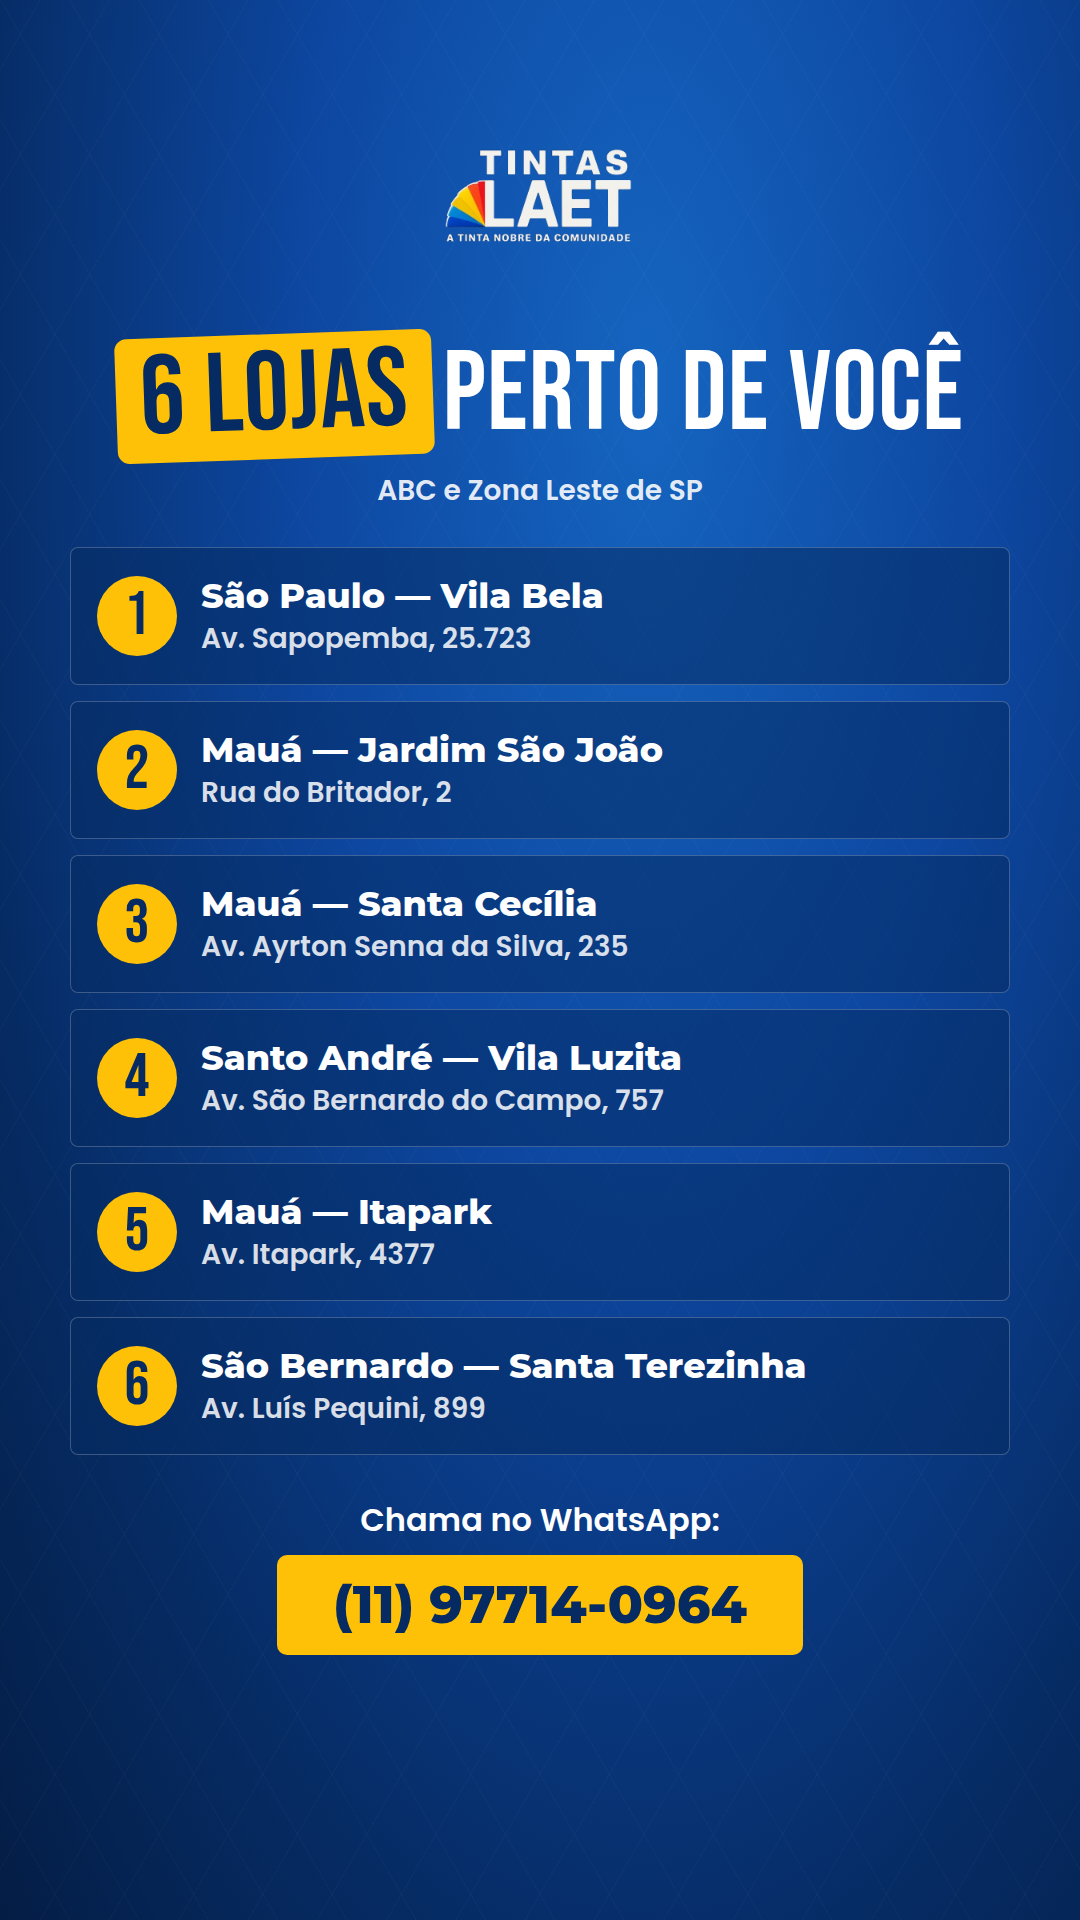
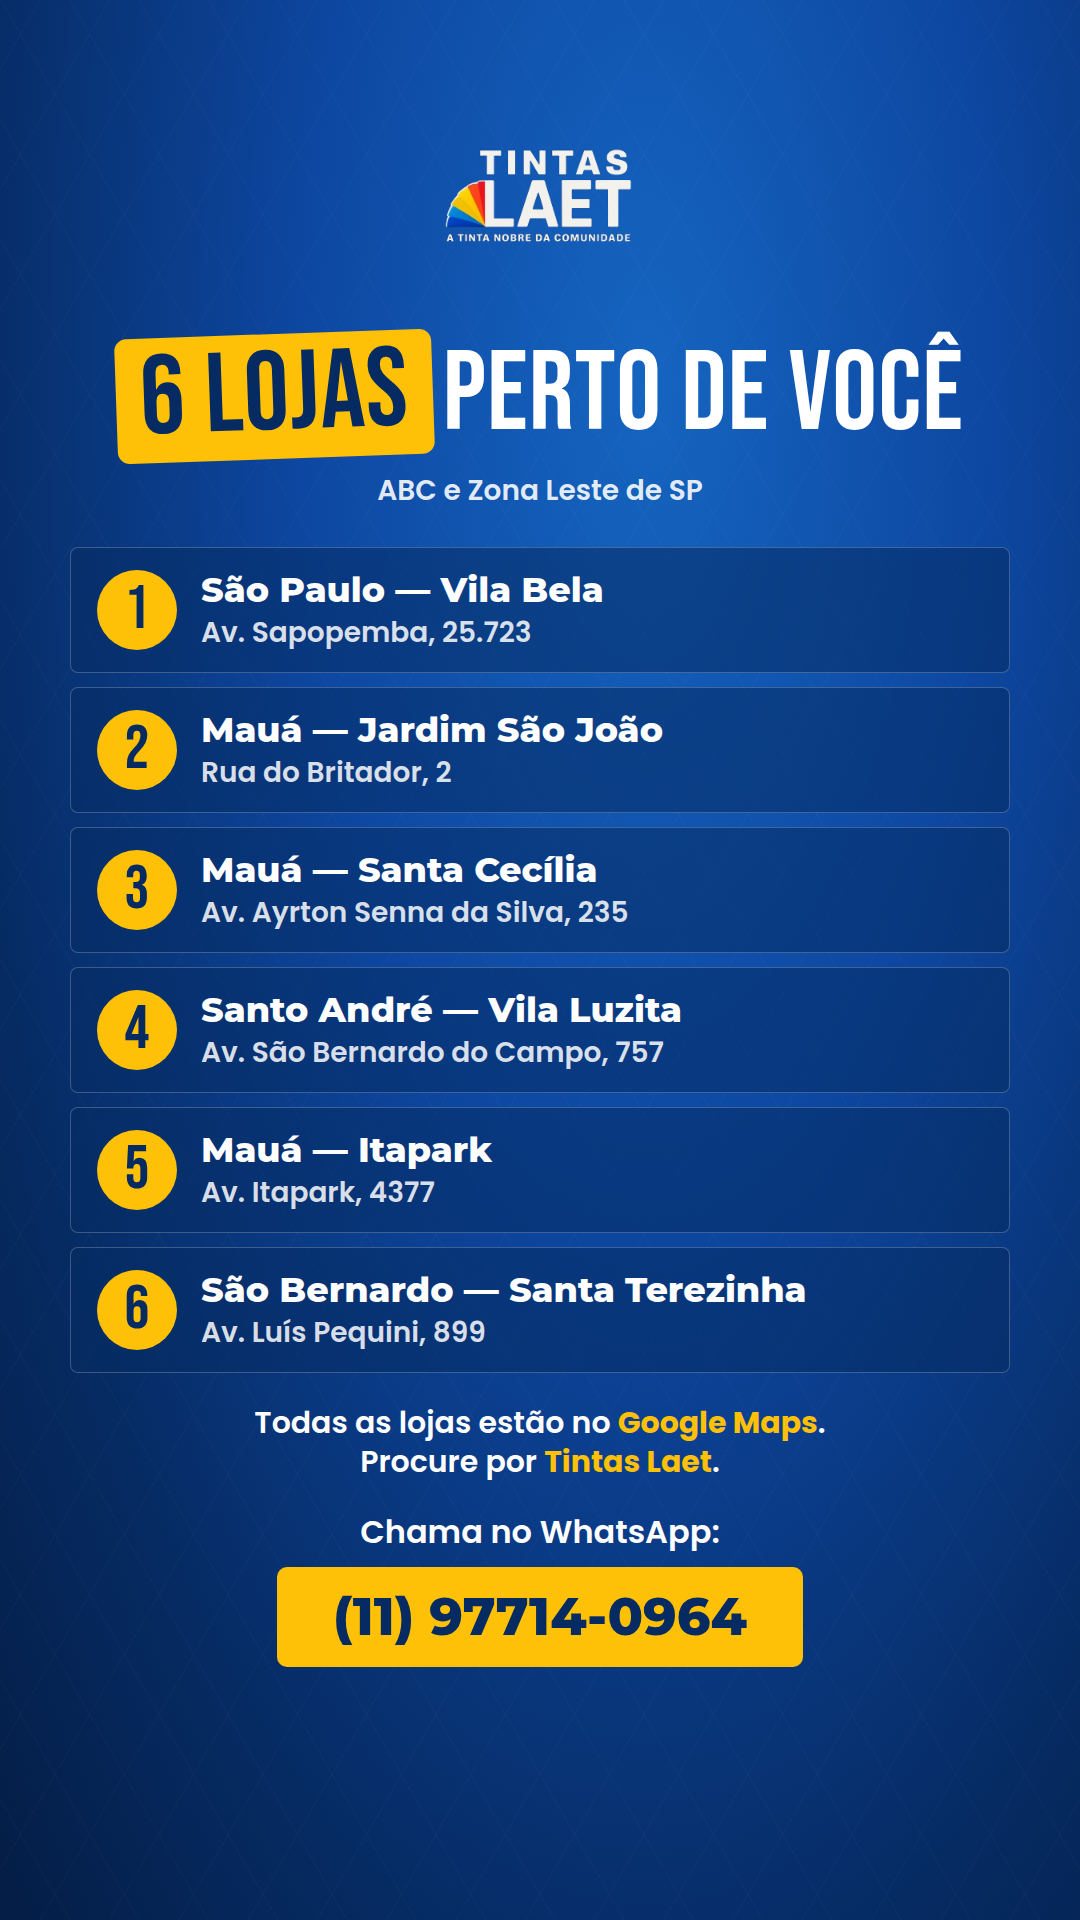
Story das 6 lojas: aviso do Google Maps
Claude-Session: https://claude.ai/code/session_01GERzdKqRwXMVg2X3B1iW2A

Changed region(s): [[0.0917, 0.2812, 0.9472, 0.875]]

diff --git a/marketing/stories/2026-10/03-nossas-6-lojas/story.html b/marketing/stories/2026-10/03-nossas-6-lojas/story.html
@@ -22,12 +22,14 @@ body { background:#020A18; }
 h1 { font:400 112px/1 'Bebas Neue',sans-serif; color:#fff; letter-spacing:.01em; margin-top:34px; white-space:nowrap; }
 h1 .chip { background:#FFC107; color:#062B63; padding:2px 24px; border-radius:12px; display:inline-block; transform:rotate(-2deg); line-height:1.08; margin-right:10px; }
 .sub { font:600 28px/1.3 'Poppins',sans-serif; color:rgba(255,255,255,.9); margin-top:14px; }
-.lojas { margin-top:38px; width:940px; display:flex; flex-direction:column; gap:16px; }
-.loja { display:flex; align-items:center; gap:24px; text-align:left; background:rgba(6,43,99,.55); border:1px solid rgba(255,255,255,.22); border-radius:8px; padding:0 26px; height:138px; }
+.lojas { margin-top:38px; width:940px; display:flex; flex-direction:column; gap:14px; }
+.loja { display:flex; align-items:center; gap:24px; text-align:left; background:rgba(6,43,99,.55); border:1px solid rgba(255,255,255,.22); border-radius:8px; padding:0 26px; height:126px; }
 .num { flex:none; width:80px; height:80px; border-radius:50%; background:#FFC107; color:#062B63; font:400 62px/80px 'Bebas Neue',sans-serif; text-align:center; }
 .b { font:800 35px/1.15 'Montserrat',sans-serif; color:#fff; }
 .e { font:600 28px/1.3 'Poppins',sans-serif; color:rgba(255,255,255,.85); margin-top:5px; }
-.cta { margin-top:44px; font:600 32px/1.3 'Poppins',sans-serif; color:#fff; }
+.maps { margin-top:30px; font:600 30px/1.3 'Poppins',sans-serif; color:#fff; }
+.maps b { color:#FFC107; font-weight:700; }
+.cta { margin-top:30px; font:600 32px/1.3 'Poppins',sans-serif; color:#fff; }
 .tel { margin-top:14px; background:#FFC107; color:#062B63; font:800 52px/1 'Montserrat',sans-serif; padding:24px 56px; border-radius:10px; }
 </style>
 </head>
@@ -44,6 +46,7 @@ h1 .chip { background:#FFC107; color:#062B63; padding:2px 24px; border-radius:12
     <div class="loja"><div class="num">5</div><div><div class="b">Mauá — Itapark</div><div class="e">Av. Itapark, 4377</div></div></div>
     <div class="loja"><div class="num">6</div><div><div class="b">São Bernardo — Santa Terezinha</div><div class="e">Av. Luís Pequini, 899</div></div></div>
   </div>
+  <div class="maps">Todas as lojas estão no <b>Google Maps</b>.<br>Procure por <b>Tintas Laet</b>.</div>
   <div class="cta">Chama no WhatsApp:</div>
   <div class="tel">(11) 97714-0964</div>
 </div>
